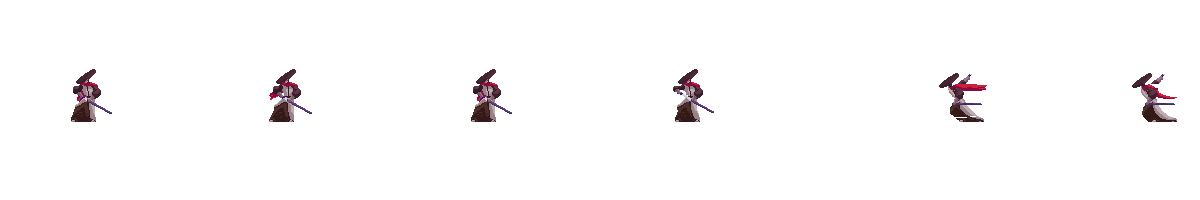
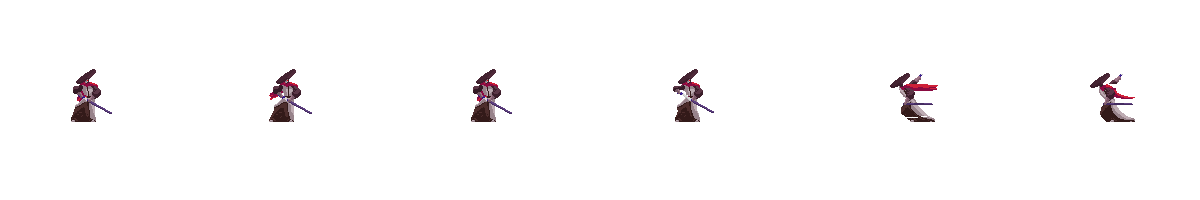
walls fix

Changed region(s): [[0.8942, 0.36, 0.9867, 0.63], [0.74, 0.36, 0.8325, 0.63]]

diff --git a/index.js b/index.js
@@ -106,7 +106,7 @@ const player = new Fighter({
       x: 150,
       y: 50
     },
-    width: 160,
+    width: 250,
     height: 50
   }
 })
@@ -238,12 +238,23 @@ function animate() {
   // player movement
 
   if (keys.a.pressed && player.lastKey === 'a') {
+
+    if(player.position.x<-30){
+               player.switchSprite('runl')
+    }else{
+
+
     player.velocity.x = -5
     player.switchSprite('runl')
+    }
   } else if (keys.d.pressed && player.lastKey === 'd') {
+    if(player.position.x>890){
+              player.switchSprite('run')
+    }
+    else{
     player.velocity.x = 5
     player.switchSprite('run')
-  } else { if(player.lastKey === 'a'){
+  }} else { if(player.lastKey === 'a'){
    player.switchSprite('idlel')
   }else{player.switchSprite('idle')
 }
@@ -266,13 +277,19 @@ function animate() {
 
   // Enemy movement
   if (keys.ArrowLeft.pressed && enemy.lastKey === 'ArrowLeft') {
+    if(enemy.position.x<0){
+        enemy.switchSprite('run')
+    } else{
     enemy.velocity.x = -5
     enemy.switchSprite('run')
-  } else if (keys.ArrowRight.pressed && enemy.lastKey === 'ArrowRight') {
+  }} else if (keys.ArrowRight.pressed && enemy.lastKey === 'ArrowRight') {
+    if(enemy.position.x>935){
+         enemy.switchSprite('runr')
+    }else{
     enemy.velocity.x = 5
     enemy.switchSprite('runr')
 
-}else { if(enemy.lastKey =='ArrowRight'){
+}}else { if(enemy.lastKey =='ArrowRight'){
           enemy.switchSprite('idler')
 }else{
 

diff --git a/js/classes.js b/js/classes.js
@@ -125,9 +125,14 @@ class Fighter extends Sprite {
     } else this.velocity.y += gravity
   }
 
-  attack() {
+  attack() { if(this.lastKey=='a') {
     this.switchSprite('attack1l')
     this.isAttacking = true
+
+  } else{
+    this.switchSprite('attack1')
+    this.isAttacking = true
+    }
 }
 
   takeHit() {
@@ -143,14 +148,32 @@ class Fighter extends Sprite {
       if (this.framesCurrent === this.sprites.death.framesMax - 1)
         this.dead = true
       return
+
+
+
+
     }
 
     // overriding all other animations with the attack animation
+
+    if(player.lastKey=='a'){
+      if (
+
+        this.image === this.sprites.attack1l.image &&
+        this.framesCurrent < this.sprites.attack1l.framesMax - 1
+      )
+      return
+
+    }else{
     if (
+
       this.image === this.sprites.attack1.image &&
       this.framesCurrent < this.sprites.attack1.framesMax - 1
     )
-      return
+    return }
+
+
+
 
     // override when fighter gets hit
     if (
